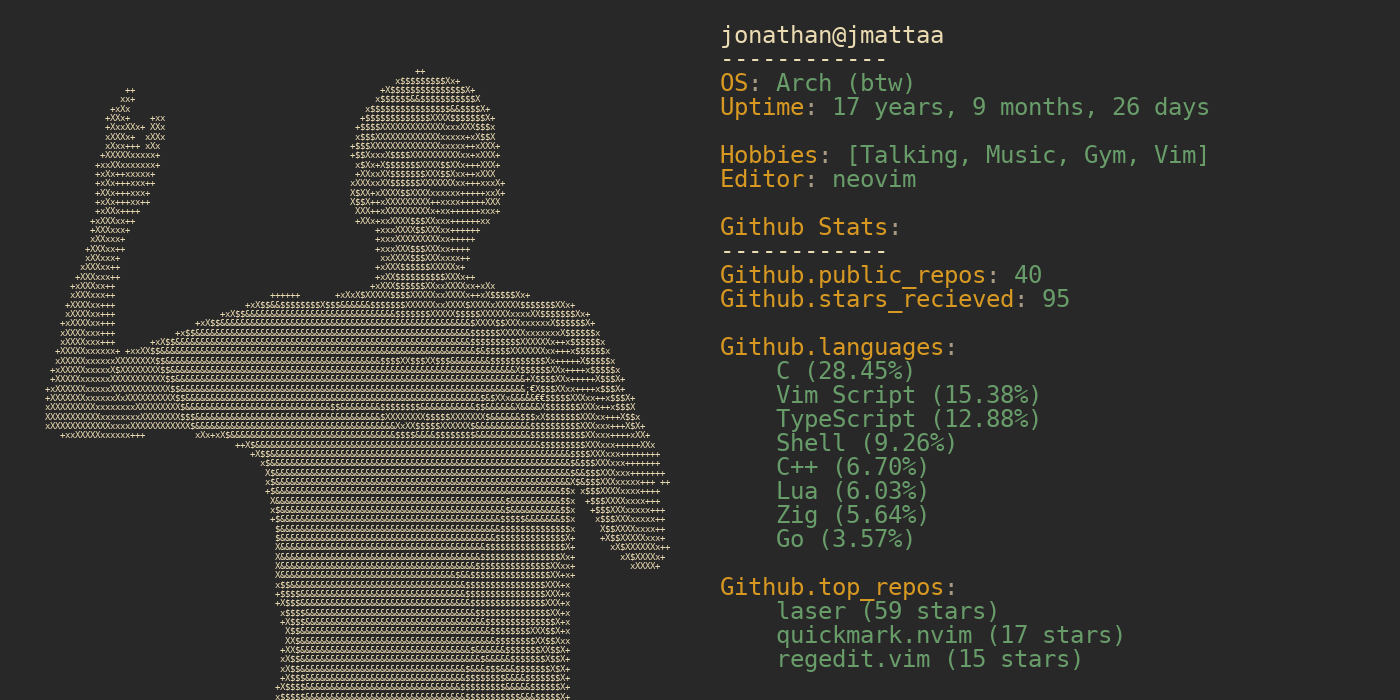
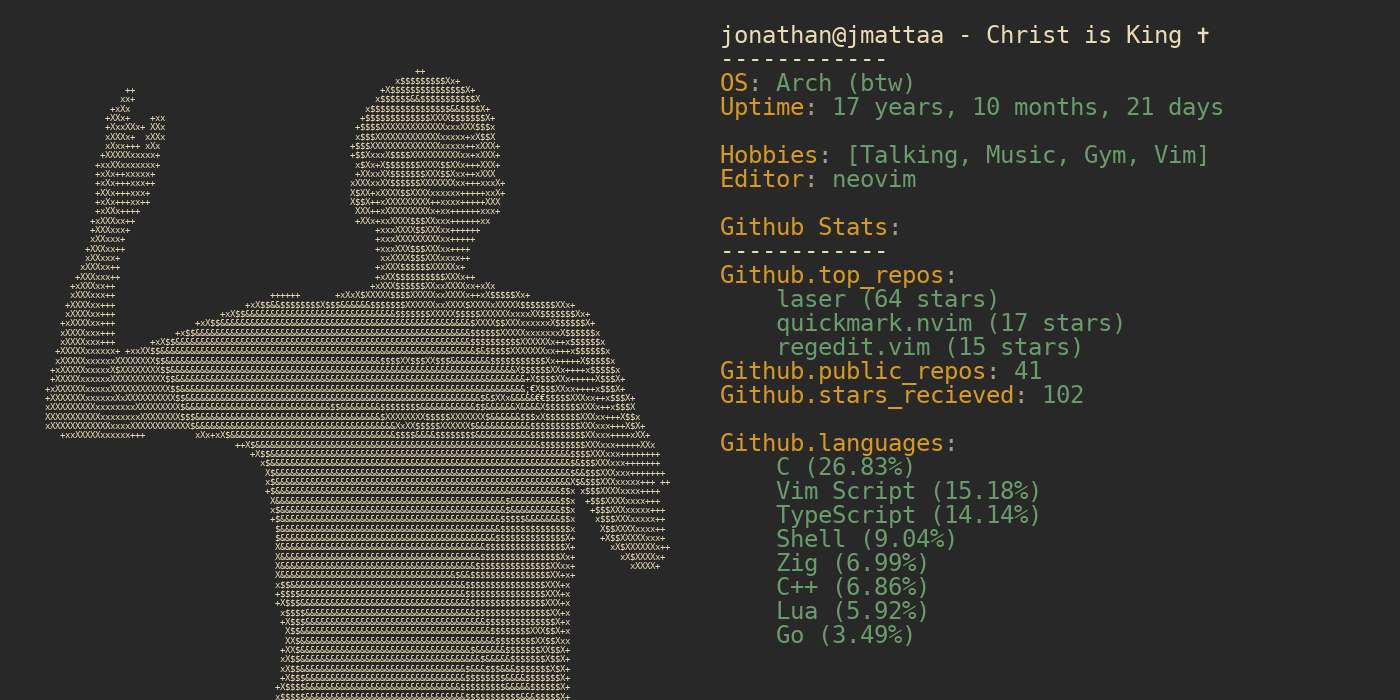
update image

Changed region(s): [[0.5221, 0.39, 0.7986, 0.96], [0.7064, 0.12, 0.86, 0.18], [0.7064, 0.03, 0.86, 0.06]]

diff --git a/main.py b/main.py
@@ -16,24 +16,30 @@ THEME_COLS = {
     'white': '#a89984',
 }
 
+
 def textsize(text, font):
     im = Image.new(mode="P", size=(0, 0))
     draw = ImageDraw.Draw(im)
     _, _, width, height = draw.textbbox((0, 0), text=text, font=font)
     return width, height
 
-def format_plural(unit): # yeh
+
+def format_plural(unit):  # yeh
     return 's' if unit != 1 else ''
-# Returns how old i am 
+# Returns how old i am
+
+
 def age(birthday):
     diff = relativedelta.relativedelta(datetime.datetime.today(), birthday)
     return '{} {}, {} {}, {} {}{}'.format(
-        diff.years, 'year' + format_plural(diff.years), 
-        diff.months, 'month' + format_plural(diff.months), 
+        diff.years, 'year' + format_plural(diff.years),
+        diff.months, 'month' + format_plural(diff.months),
         diff.days, 'day' + format_plural(diff.days),
         ' 🎂' if (diff.months == 0 and diff.days == 0) else '')
 
 # Function to fetch GitHub data
+
+
 def fetch_github_data(username):
     try:
         url = f"https://api.github.com/users/{username}"
@@ -56,6 +62,8 @@ def fetch_github_data(username):
         }
 
 # Function to load ASCII art from a file
+
+
 def load_ascii_art(filename):
     try:
         with open(filename, 'r') as file:
@@ -63,6 +71,7 @@ def load_ascii_art(filename):
     except FileNotFoundError:
         print(f"Error: File {filename} not found.")
         return ""
+
 
 def draw_highlighted_text(draw, position, text, font, fontsize, theme_cols):
     left_side_color = theme_cols['yellow']
@@ -74,16 +83,16 @@ def draw_highlighted_text(draw, position, text, font, fontsize, theme_cols):
     for line in text.split('\n'):
         # Split the line at the semicolon
         parts = line.split(':')
-        
-        if len(parts) == 2:  
+
+        if len(parts) == 2:
             left_text = parts[0]
             right_text = parts[1]
             draw.text((x, y), left_text, font=font, fill=left_side_color)
             x += textsize(left_text, font=font)[0]
-            
+
             draw.text((x, y), ':', font=font, fill=semicolon_color)
             x += textsize(':', font=font)[0]
-            
+
             draw.text((x, y), right_text, font=font, fill=right_side_color)
         elif line.startswith("    "):
             draw.text((x, y), line, font=font, fill=right_side_color)
@@ -94,18 +103,19 @@ def draw_highlighted_text(draw, position, text, font, fontsize, theme_cols):
         y += fontsize
         x = position[0]
 
+
 def create_image_with_stats(ascii_art_filename, username):
     # Fetch GitHub data
     stats = fetch_github_data(username)
 
     # Load ASCII art
     ascii_art = load_ascii_art(ascii_art_filename)
-    
+
     # Settings
     img_width = 1400
-    img_height = 700 
-    ascii_font_size = 9.3333333333 # it's 150 chars wide do some math
-    stats_font_size = 24 
+    img_height = 700
+    ascii_font_size = 9.3333333333  # it's 150 chars wide do some math
+    stats_font_size = 24
     ascii_art_width = img_width // 2
     font_path = "./res/DejaVuSansMono.ttf"
 
@@ -122,17 +132,20 @@ def create_image_with_stats(ascii_art_filename, username):
         return
 
     # Create an image from the ASCII art
-    ascii_art_image = Image.new('RGB', (ascii_art_width, img_height), color=THEME_COLS['bg'])
+    ascii_art_image = Image.new(
+        'RGB', (ascii_art_width, img_height), color=THEME_COLS['bg'])
     ascii_draw = ImageDraw.Draw(ascii_art_image)
-    
+
     # Split ASCII art into lines and draw on the image
     y_position = 0
     for line in ascii_art.splitlines():
-        ascii_draw.text((0, y_position), line, fill=THEME_COLS['fg'], font=ascii_font)
+        ascii_draw.text((0, y_position), line,
+                        fill=THEME_COLS['fg'], font=ascii_font)
         y_position += ascii_font_size
-    
+
     # Resize ASCII art image to fit
-    ascii_art_image = ImageOps.fit(ascii_art_image, (ascii_art_width, img_height), method=Image.Resampling.BOX)
+    ascii_art_image = ImageOps.fit(
+        ascii_art_image, (ascii_art_width, img_height), method=Image.Resampling.BOX)
 
     # Paste ASCII art image onto the final image
     img.paste(ascii_art_image, (0, 0))
@@ -141,7 +154,8 @@ def create_image_with_stats(ascii_art_filename, username):
     total_bytes = 0
     total_stars = 0
 
-    repos_response = requests.get(f"https://api.github.com/users/{username}/repos")
+    repos_response = requests.get(
+        f"https://api.github.com/users/{username}/repos")
     repos = repos_response.json()
 
     for repo in repos:
@@ -158,16 +172,21 @@ def create_image_with_stats(ascii_art_filename, username):
                     language_stats[lang] = bytes
 
     # Convert to percentage
-    language_percentage = {lang: (bytes / total_bytes) * 100 for lang, bytes in language_stats.items()}
-    sorted_languages = sorted(language_percentage.items(), key=lambda x: x[1], reverse=True)[:8] # get top 8
-    formatted_languages = "\n".join(f"    {lang} ({percentage:.2f}%)" for lang, percentage in sorted_languages)
+    language_percentage = {
+        lang: (bytes / total_bytes) * 100 for lang, bytes in language_stats.items()}
+    sorted_languages = sorted(language_percentage.items(
+    ), key=lambda x: x[1], reverse=True)[:8]  # get top 8
+    formatted_languages = "\n".join(
+        f"    {lang} ({percentage:.2f}%)" for lang, percentage in sorted_languages)
 
-    top_repos = sorted(repos, key=lambda x: x['stargazers_count'], reverse=True)[:3] # only get 3
-    formatted_top_repos = "\n".join(f"    {name} ({stars} stars)" for repo in top_repos for name, stars in [(repo['name'], repo['stargazers_count'])])
+    top_repos = sorted(repos, key=lambda x: x['stargazers_count'], reverse=True)[
+        :3]  # only get 3
+    formatted_top_repos = "\n".join(f"    {name} ({stars} stars)" for repo in top_repos for name, stars in [
+                                    (repo['name'], repo['stargazers_count'])])
 
     # Draw GitHub stats on the right side
     text = (
-        f"jonathan@{username}\n"
+        f"jonathan@{username} - Christ is King ✝\n"
         "------------\n"
         f"OS: Arch (btw)\n"
         f"Uptime: {age(datetime.datetime(2007, 8, 18))}\n"
@@ -187,11 +206,11 @@ def create_image_with_stats(ascii_art_filename, username):
         "\n"
     )
 
-    draw_highlighted_text(draw, (ascii_art_width + 20, 20), text, stats_font, stats_font_size, THEME_COLS)
+    draw_highlighted_text(draw, (ascii_art_width + 20, 20),
+                          text, stats_font, stats_font_size, THEME_COLS)
 
     # Save the image
     img.save('img.png')
 
+
 create_image_with_stats('./res/me.txt', 'jmattaa')
-
-
